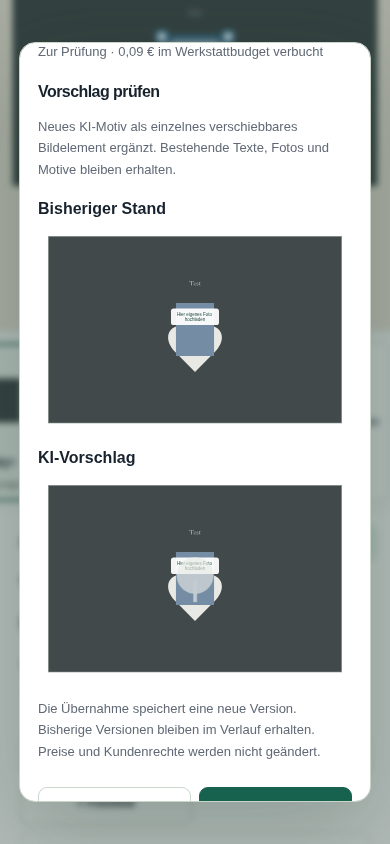
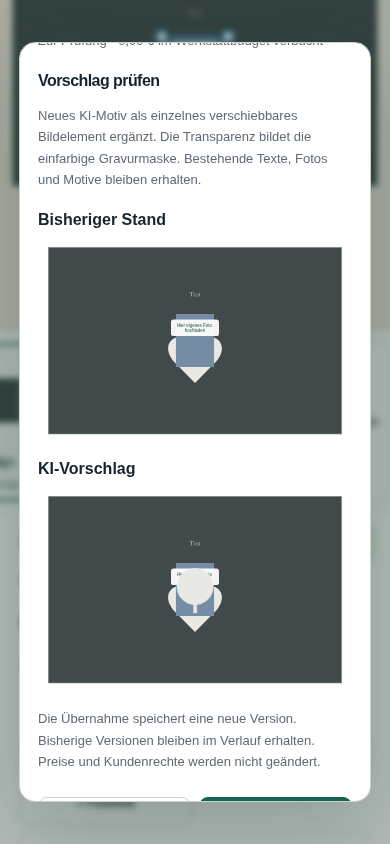
Preserve original AI images while deriving visible engraving masks

diff --git a/app/workshop/photo-import.py b/app/workshop/photo-import.py
@@ -19,6 +19,12 @@ try:
         image = ImageOps.exif_transpose(image).convert('RGBA')
         width, height = image.size
         image.thumbnail((1600, 1600), Image.Resampling.LANCZOS)
+        if data.get('monochrome') is True:
+            # A newly generated engraving motif uses its alpha as the ink mask.
+            # Keep original PNG bytes separately; print and photo edits stay RGB.
+            alpha = image.getchannel('A')
+            image = Image.new('RGBA', image.size, (0, 0, 0, 0))
+            image.putalpha(alpha)
         image.info.clear()
         out = io.BytesIO()
         image.save(out, format='PNG')

diff --git a/ops/plesk/AI-DESIGN.md b/ops/plesk/AI-DESIGN.md
@@ -6,7 +6,7 @@ Die bestehende Werkstattlogik übernimmt weiterhin Geometrie, Schriften, Motive,
 
 Produkt öffnen → Designs & Elemente → beim ausgewählten Design **Mit KI gestalten**. Vorher Änderungen speichern. Auftrag eingeben; „Vorhandene Texte und Schriften erhalten“ und „Fotofelder unverändert lassen“ sind voreingestellt. Vorher/Nachher prüfen, dann ausdrücklich **Als neue Version übernehmen** oder verwerfen. Die Übernahme veröffentlicht kein Shopify-Produkt und schaltet keine neue Bestellrevision frei.
 
-Die Text-/Layoutaktion erstellt native, einzeln bearbeitbare Texte und Anordnungen, ändert Farben und verwendet vorhandene Bibliotheksmotive. Optional freigeschaltet: **Neues Motiv erzeugen** ergänzt ein einzelnes PNG-Bildelement; **Musterfoto bearbeiten** ersetzt ausschließlich das Beispielbild eines ausdrücklich ausgewählten Fotofelds. Originalmaske, Position, Kundenrechte und übrige Gestaltung bleiben erhalten. Das originale Foto und die alte Revision bleiben gespeichert. Rasterbilder werden nicht als verlustfreie Vektoren ausgegeben. Ein Motiv lässt sich anschließend mit den vorhandenen Händlerwerkzeugen verschieben, skalieren oder entfernen. PDF-Schriftpfade sind zuerst mit der vorhandenen Aufbereitung und Textumwandlung bearbeitbar zu machen. Ein flaches Bild wird dadurch nicht automatisch zu einem semantisch bearbeitbaren Design. Technische Konturen bleiben geschützt.
+Die Text-/Layoutaktion erstellt native, einzeln bearbeitbare Texte und Anordnungen, ändert Farben und verwendet vorhandene Bibliotheksmotive. Optional freigeschaltet: **Neues Motiv erzeugen** ergänzt ein einzelnes PNG-Bildelement; **Musterfoto bearbeiten** ersetzt ausschließlich das Beispielbild eines ausdrücklich ausgewählten Fotofelds. Originalmaske, Position, Kundenrechte und übrige Gestaltung bleiben erhalten. Das originale Foto und die alte Revision bleiben gespeichert. Neue Gravurmotive werden aus dem Alpha-Kanal als schwarze technische Gravurmaske abgeleitet; die Vorschau zeigt die Material-Gravurfarbe. Dadurch bleiben auch weiße generierte Motive auf Schiefer sichtbar. Das unveränderte KI-PNG wird zusätzlich gespeichert. Druckmotive und bearbeitete Fotos behalten ihre RGB-Tonwerte. Rasterbilder werden nicht als verlustfreie Vektoren ausgegeben. Ein Motiv lässt sich anschließend mit den vorhandenen Händlerwerkzeugen verschieben, skalieren oder entfernen. PDF-Schriftpfade sind zuerst mit der vorhandenen Aufbereitung und Textumwandlung bearbeitbar zu machen. Ein flaches Bild wird dadurch nicht automatisch zu einem semantisch bearbeitbaren Design. Technische Konturen bleiben geschützt.
 
 Bei Text-/Layoutaufträgen gehen an OpenAI ausschließlich der Auftrag, ausgewählte Texte/Elementmaße, Geometrie und Bezeichnungen vorhandener Schriften/Motive. Keine Bildbytes, Schriftdateien, Bestellungen, Preise oder Zugangsdaten aus dem Produkt. Texte können persönliche Angaben enthalten; die Oberfläche informiert vor dem Absenden darüber. API-Schlüssel werden nur im serverseitigen Authorization-Header verwendet. `store:false` für Responses. Neue Motive senden ausschließlich das Briefing; Fotoaufträge zusätzlich nur das ausgewählte Musterfoto als geprüfte PNG-Kopie ohne EXIF. Keine komplette Produktansicht oder Kundendatenbank. Kein Files-Upload; Bildbytes gehen direkt an den festen Images-Endpunkt. Die Images API bietet kein `store:false`-Argument. Keine Werkzeuge, Weiterleitungen oder automatischen Wiederholungen.
 

diff --git a/docs/releases/20261011/ai-images/RELEASE.md b/docs/releases/20261011/ai-images/RELEASE.md
@@ -15,3 +15,7 @@ Gemeinsame 100-EUR-Monatsgrenze und dasselbe private Kostenjournal; keine zweite
 ## Noch ausstehend in diesem Zwischenstand
 
 Paketinstallation, echter Generierungs-/Fotobearbeitungsauftrag, Serveraktivierung und abschließende Bestandssicherung. Die vorhandene Live-Laufzeit bleibt bis zur bestandenen Prüfung auf `060a10b`. Echte Shopify-Nutzeranmeldung, öffentliche Kunden-/Checkout-Strecke, Drive, allgemeine Shopify-Übertragung, Stapel-KI und Maschinen-/Material-/ICC-Abnahme sind nicht durch synthetische Tests erledigt.
+
+## Sichtprüfung und Korrektur vor Veröffentlichung
+
+Beide echten API-Aufträge bestanden technisch (9 Cent Motiv, 23 Cent Foto; mit früherem Texttest insgesamt 33 Cent). Keine Live-Produktübernahme. Sichtprüfung fand ein zu schwaches weißes Gravurmotiv: die bestehende Graustufenabbildung macht weiße Pixel transparent. Neue KI-Gravurmotive werden deshalb ausdrücklich aus der Transparenz als technische schwarze Gravurmaske abgeleitet. Das Original-PNG bleibt bytegleich erhalten; Druckmotive und Fotobearbeitung behalten RGB. 34 gezielte Folgeprüfungen einschließlich echter Bilddecodierung, Originalerhalt und Gravur-Ausgabe bestanden. Erneute Vorschau mit demselben echten KI-Ergebnis, kein weiterer kostenpflichtiger Aufruf. Fotobearbeitung verändert sichtbare Bilddetails/Ausschnitt; deshalb ausdrücklich vor Übernahme prüfen, keine Identitäts- oder Rekonstruktionsgarantie.
